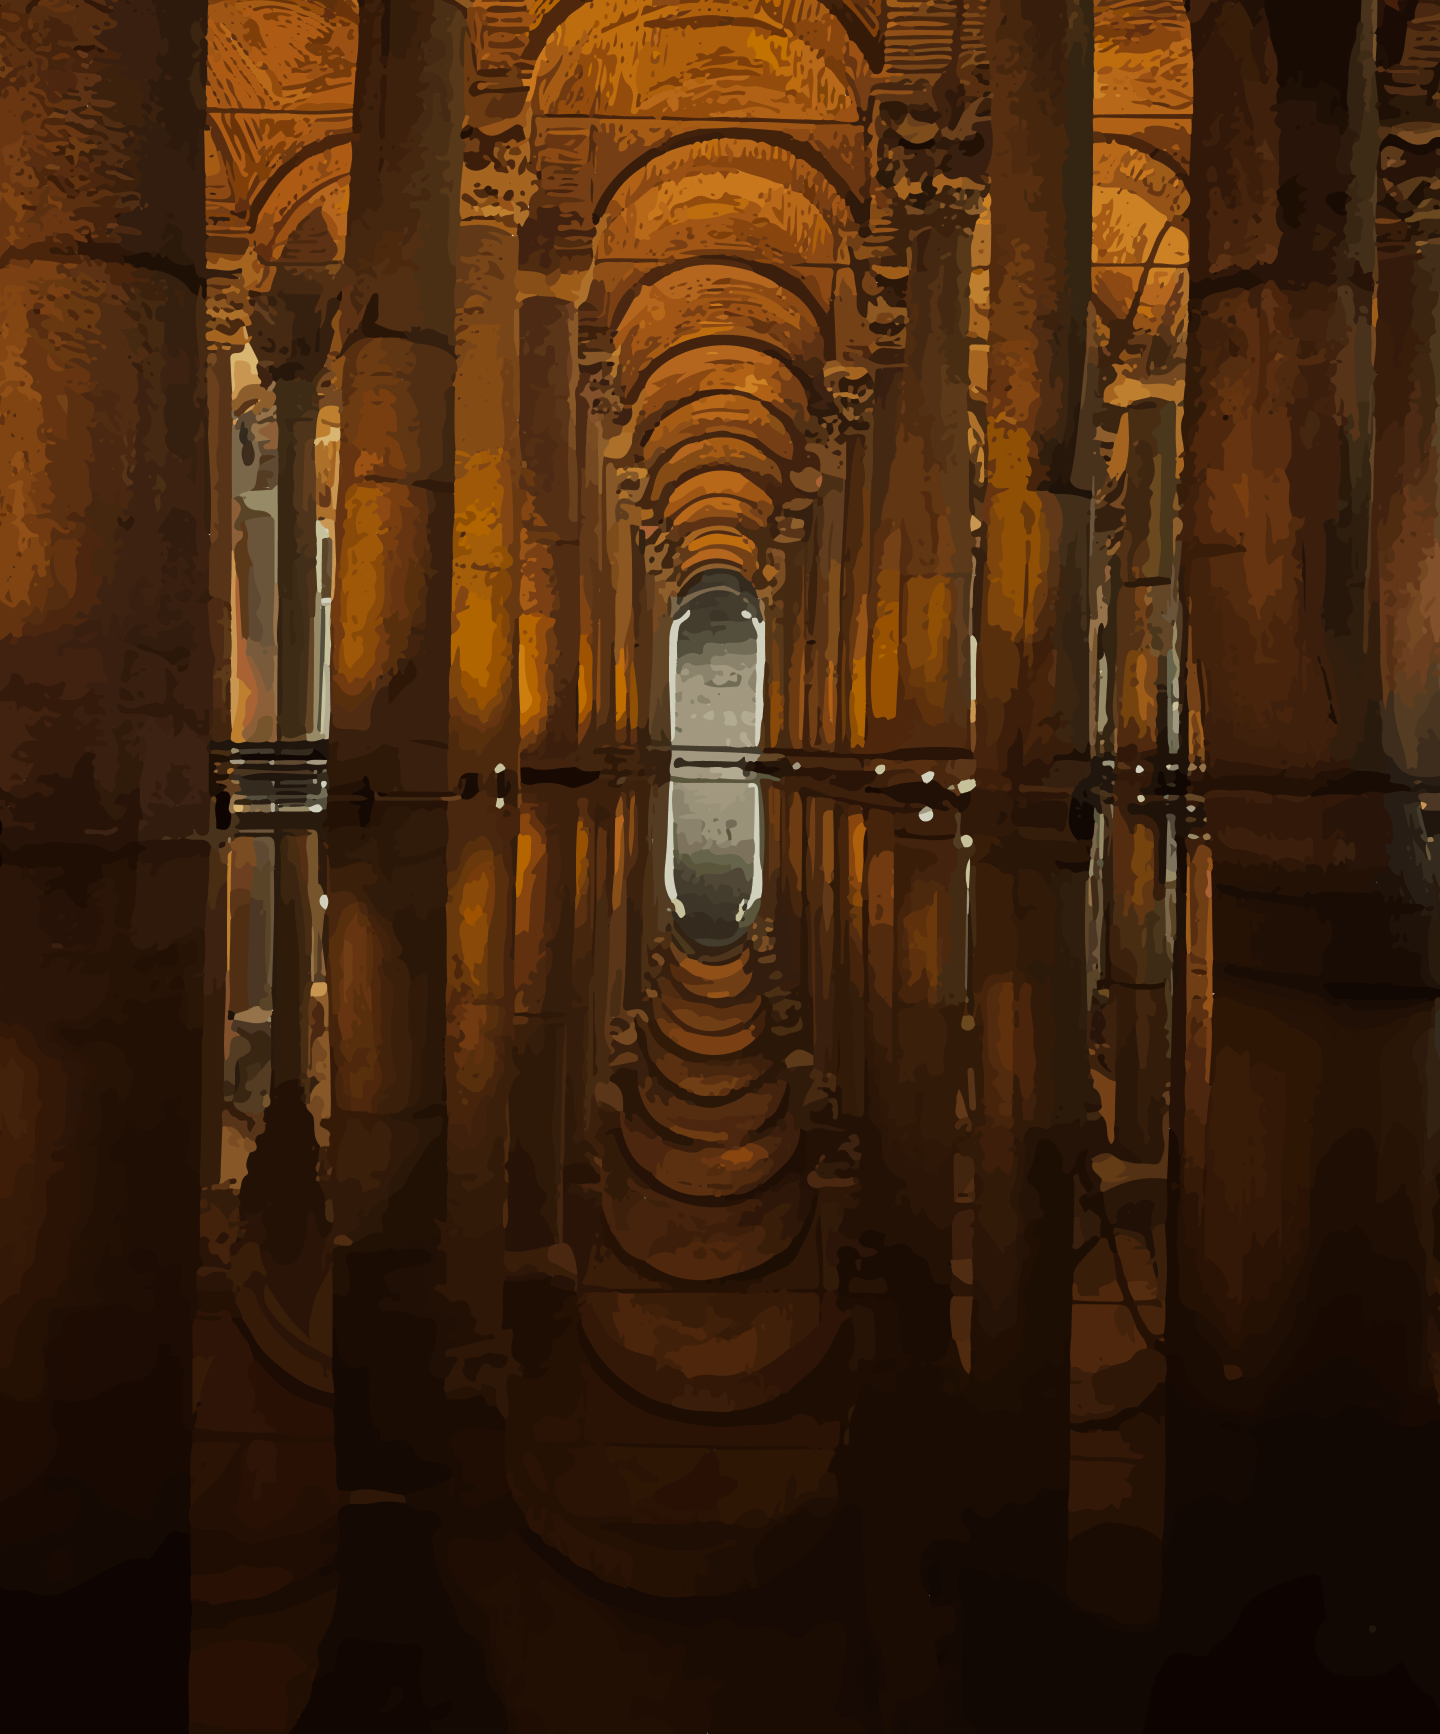
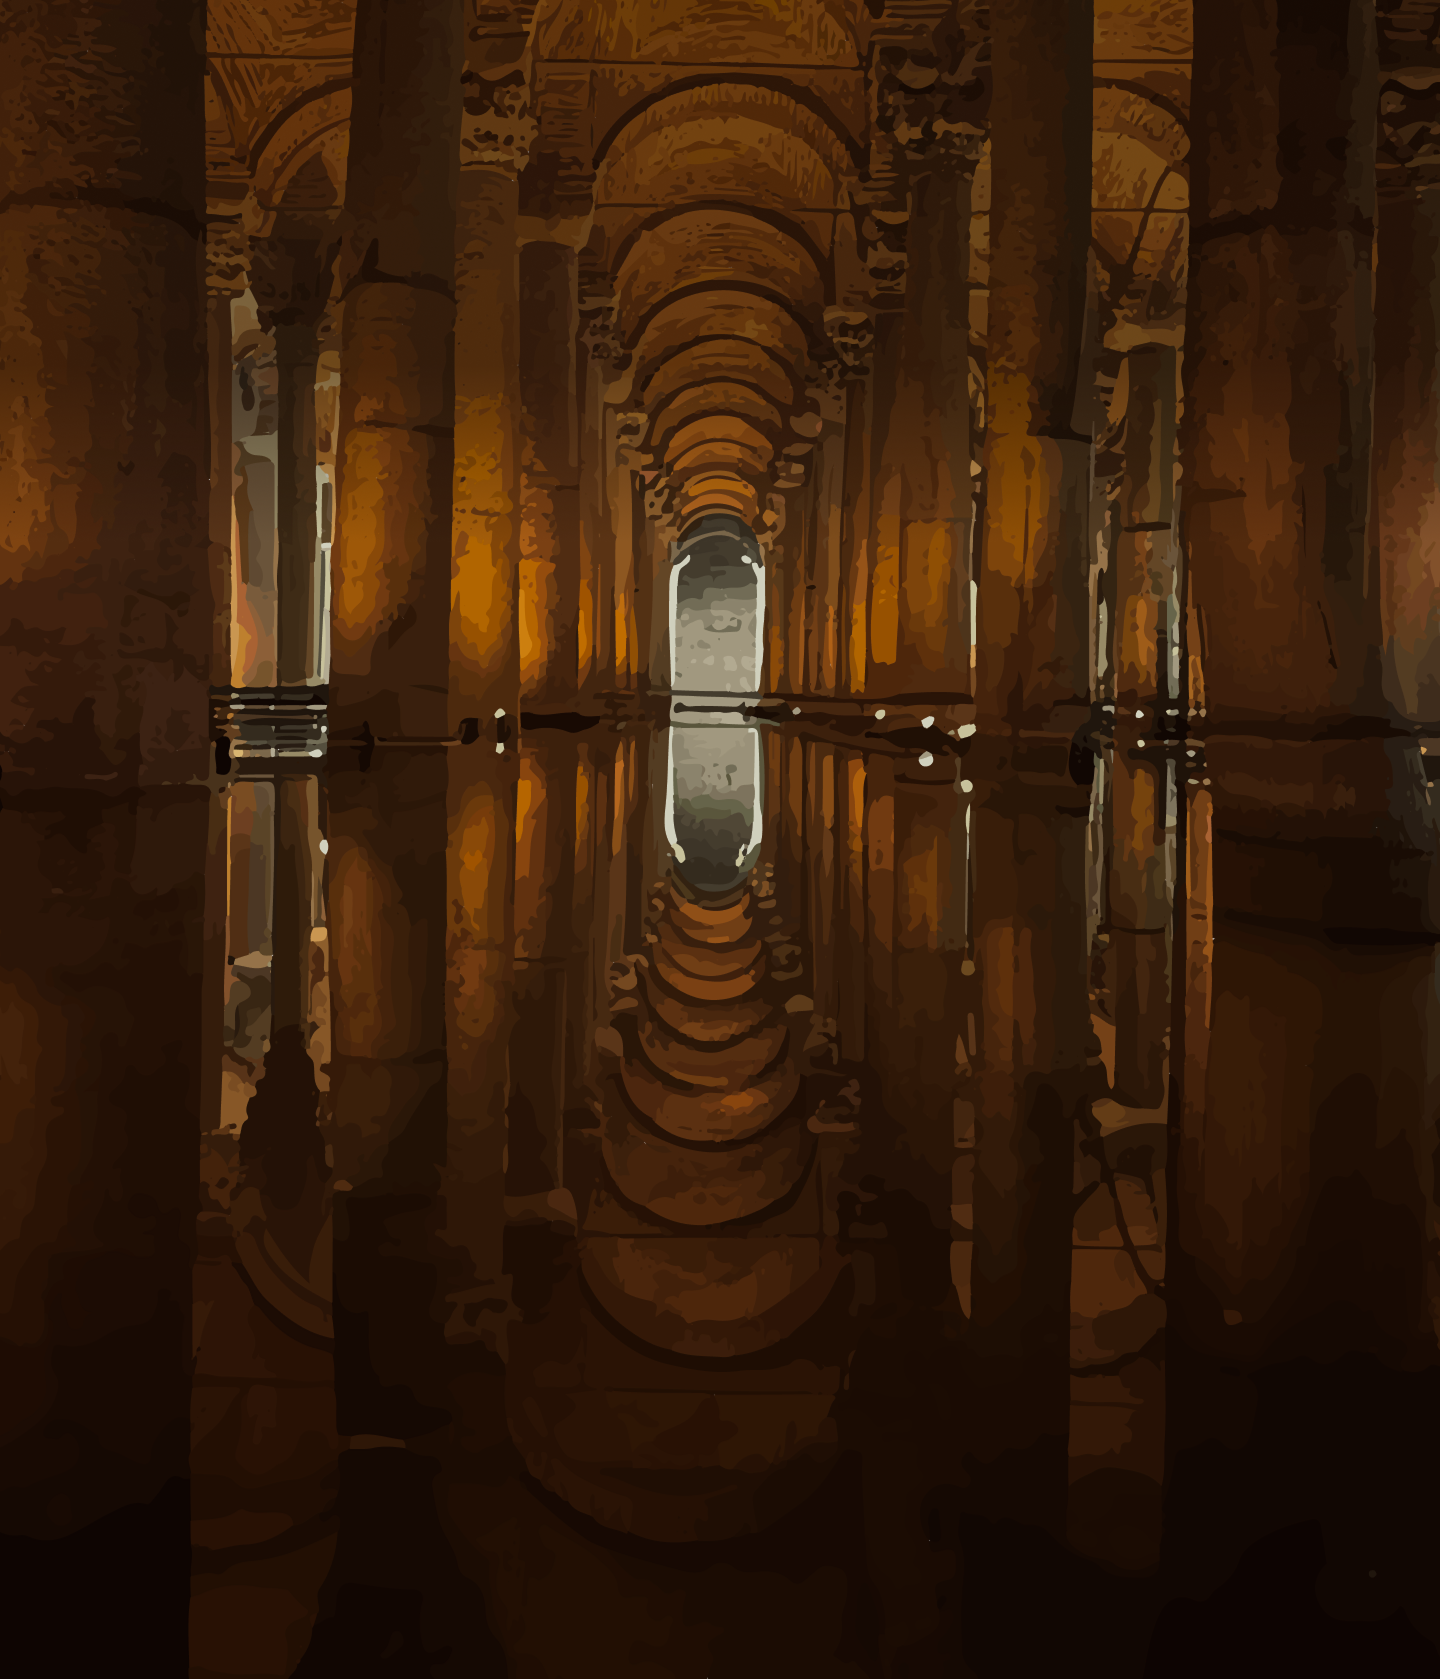
trying for the new main page

diff --git a/styles/index.css b/styles/index.css
@@ -4,22 +4,15 @@
     .background {
         position: relative;
         width: 100%;
-        height: 120.41vw;
-        overflow: hidden;
-        pointer-events: none;
-
-    }
-
-    .background::before {
-        content: "";
-        position: absolute;
-        inset: 0;   
-        background-image: url('../images/bigscreen/background-enterance.png');
+        height: 116.59vw;
+        overflow: hidden;        
         background-size: cover;
         background-position: center;
         background-repeat: no-repeat;
-        z-index: -1; 
+        background-image: url('../images/bigscreen/background-enterance.png');
+
     }
+
 
     .main-nav {
         z-index: 10;
@@ -29,7 +22,6 @@
         width: 30vw;
         transform-origin: left top;
         transform:rotate(-90deg) translateX(-100%);
-        pointer-events: auto;
 
     }
 
@@ -55,47 +47,59 @@
     }
 
 
-    .main-text-container {
-        margin-top: -100vw;
-        z-index: 101;
-        text-align: center;
-    }
-
-    .name {
-        display: block;
-        margin-left: 20.5vw;
-        margin-top: -2.4vw;
-    }
-
-    .dive {
-        margin-top: 33.5vw;
-    }
-
-    .me-designer {
-        margin-top: 6vw;
-        width: 45vw;
+    .main-text-container{
+        display: flex;
+        flex-direction: column;
+        justify-content: center;
+        align-items: flex-start;
+        width: 52vw;
         margin-left: auto;
         margin-right: auto;
+        gap:2.7778vw;
+        margin-top:5.9vw;
     }
 
-    .i-believe {
-        margin-top: 4vw;
-        width: 33vw;
-        margin-left: auto;
-        margin-right: auto;
+    .name{
+        display: flex;
+        flex-direction: column;
+        gap: 1.667vw;
     }
+
+    .name h1{
+        margin-bottom: -0.15em;
+    }
+
+    .description{
+        display:flex;
+        flex-direction: column;
+        gap:1.111vw;
+    }
+
+    .main-text-container p{
+        margin:0;
+    }
+
 
     .about-me-button {
-        display: inline-block;
-        margin-top: 8vw;
-        border-width: 1px;
-        background-color: transparent;
-        border-style: solid;
-        border-color: #F1EBDC;
+        display:flex;
+        align-items: center;
+        justify-content: center;
+        background-color: #F1EBDC;
         border-radius: 16px;
-        padding: 0.55vw 2.77vw;
+        width: 12.36vw;
+        height: 3.33vw;
     }
 
+    .dive{
+        display: flex;
+        flex-direction: column;
+        justify-content: center;
+        align-items: center;
+        margin-top: 32.8vw;
+        text-align: center;
+        gap:2.92vw;
+    
+    }
 
     .project-background{
         position: relative;
@@ -103,31 +107,35 @@
             to bottom,
             rgba(21, 9, 3, 0) 0,
             rgba(21, 9, 3, 1) 10.7vw,
-            #150903 86.32vw
+            #150903 29.93vw
         );
-        height: 86.32vw;
+        height: 29.93vw;
         background-repeat: no-repeat;
         background-size: 100% auto; 
         z-index: 10;
-        margin-top: 3.7vw;
+        margin-top: -10.7vw;
 
     }
+
     
     .project-container{
         position: relative;
         width: 100%;
-        height: 86.32vw;
+        height: 29.93vw;;
         display: flex;
         flex-direction: column;
         align-items: center;
         justify-content: center;
         gap: 1.667vw;
-       
     }
 
 
     .project-container p, .project-container h2{
         margin: 0;
+    }
+     .project-container h2{
+        margin-top: -40.7vw;
+        margin-bottom: -1vw;
     }
 
 
@@ -160,14 +168,14 @@
     }
 
 
-    .see-all-button{
-        box-sizing: border-box;
-        border-width: 1px;
-        background-color: transparent;
-        border-style: solid;
-        border-color: #F1EBDC;
+     .see-all-button {
+        display:flex;
+        align-items: center;
+        justify-content: center;
+        background-color: #F1EBDC;
         border-radius: 16px;
-        padding: 0.55vw 2.77vw;
+        width: 12.36vw;
+        height: 3.33vw;
     }
 
     #about{

diff --git a/index.html b/index.html
@@ -20,8 +20,9 @@
 
 
     </head>
-    <body>      
-        <header class="background">
+    <body>   
+           
+        <section class="background">
             <nav class="main-nav">
                 <ul class="navbar-nav">
                     <li class="nav-item">
@@ -35,20 +36,30 @@
                     </li>
                 </ul>
             </nav>
-        </header>
+        
 
 
-        <div class="main-text-container">
-            <h1 class="stonebeige ">WELCOME</h1>
-            <p class="dynalight stonebeige name">- Tati Brito.</p>
-            <p class="tags stonebeige dive">Dive into my world.</p>
-            <h3 class="stonebeige me-designer">Nice to see you here. I’m Tati, UX Designer and Marketing Enthusiastic.</h3>
-            <p class="para stonebeige i-believe">I believe that all design should connect people and create meaningful value, while holding space for artistic expression.</p>
-            <a href="#about" >
-                <span class="ctas stonebeige about-me-button">ABOUT ME</span>
-            </a>      
- 
-        </div>
+            <section class="main-text-container">
+                <section class="name">
+                    <p class="para stonebeige">Nice to see you here, I am...</p>
+                    <h1 class="stonebeige ">Tati Brito</h1>
+                </section>
+                <section class="description">
+                    <h3 class="stonebeige">Product Designer and Marketing Specialist</h3>
+                    <p class="para stonebeige">I believe that all design should connect people and create meaningful value, while offering space for a unique expression of personality.</p>
+                </section>
+                <a href="#about" >
+                    <span class="ctas deepcave about-me-button">About Me</span>
+                </a>     
+            </section>
+            <section class="dive">
+                <p class="stonebeige tags">Welcome and dive into my world.</p>
+                <svg width="48" height="48" viewBox="0 0 48 48">
+                    <line x1="24" y1="0" x2="24" y2="40" stroke="#F1EBDC" stroke-width="2"/>
+                    <polyline points="18,34 24,40 30,34" fill="none" stroke="#F1EBDC" stroke-width="2" stroke-linecap="round" stroke-linejoin="round"/>
+                </svg>
+            </section>
+        </section>
         
         <div id="projects" class="project-container project-background">
             <h2 class="stonebeige">PROJECT HALL</h2>
@@ -130,7 +141,7 @@
 
                 </div>
             </div>
-            <a href="projecthall" class="ctas stonebeige see-all-button">
+            <a href="projecthall" class="ctas browndrapes see-all-button">
                 See All
             </a> 
         </div>

diff --git a/styles/style.css b/styles/style.css
@@ -25,17 +25,25 @@ html {
     h1{
         font-family: 'Cinzel Decorative', serif;
         font-size: clamp(3rem, 9vw, 10rem);
+        margin:0;
+        line-height: 1;
     }
 
     h2{   
         font-family: 'Cinzel', serif;
         font-size: clamp(1.5rem, 3.33vw, 3.5rem);
+        margin:0;
+        line-height: 1;
+
     }
 
     h3 {
         font-family: 'Buenard', serif;
         font-weight: 700;
         font-size: clamp(1.25rem, 2.8vw, 3rem);
+        margin:0;
+        line-height: 1;
+
     }
 
     em{
@@ -43,54 +51,65 @@ html {
         font-style: italic;
         font-size: clamp(0.875rem, 1.17vw, 1.3rem);
         white-space: nowrap;
+        line-height: 1;
     }
 
     .tags{  
         font-family: 'Buenard', serif;
         font-weight: 400;
         font-size: clamp(1rem, 1.75vw, 1.75rem); 
+        line-height: 1;
     }
     
     .tags-bold{  
         font-family: 'Buenard', serif;
         font-weight: 700;
         font-size: clamp(1rem, 1.75vw, 1.75rem); 
+        line-height: 1;
     }
 
     .ctas {
-        font-family: 'Cinzel Decorative', serif !important;
+        font-family: 'Buenard', serif !important;
+        font-weight: 700;
         font-size: clamp(1rem, 1.66vw, 1.625rem);
+        line-height: 1;
     }
 
 
     .para{
         font-family: 'Buenard', serif;
         font-weight: 400;
-        font-size: clamp(0.875rem, 1.14vw, 1.3rem);
+        font-size: clamp(0.875rem, 1.111vw, 1.3rem);
+        line-height: 1;
+
     }
 
     .parabold{
         font-family: 'Buenard', serif;
         font-weight: 700;
         font-size: clamp(0.875rem, 1.14vw, 1.3rem);
+        line-height: 1;
     }
 
     .captions{
         font-family: 'Buenard', serif;
         font-weight: 400;
         font-size: clamp(0.8125rem, 0.97vw, 1rem);
+        line-height: 1;
     }
 
     .dynalight{
         font-family: 'Dynalight', cursive;
         font-size: clamp(1.5rem, 3vw, 3rem);
         color: #FFFFFF;
+        line-height: 1;
     }
 
 
     ol li::marker, ul li::marker {
         font-family: 'Buenard', serif;
         font-weight: 400;
+        
     }
 
     footer{
